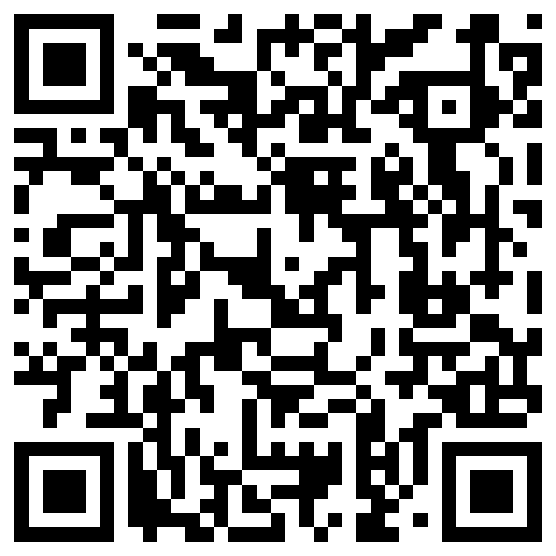
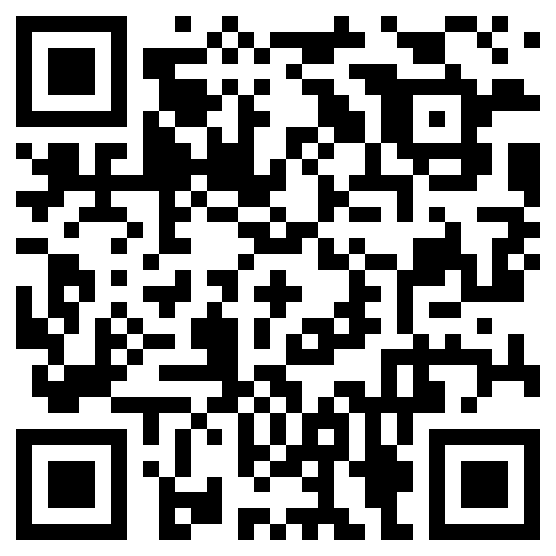
fix .md file

diff --git a/README.md b/README.md
@@ -41,7 +41,7 @@ implementare sistemi di controllo dell'errore con if, try catch e throw
 
 ---
 
-DEMO: <a href="https://mattiaortolani.github.io/Disney/">CLICCA PER VISUALIZZARE</a>
+DEMO: <a href="https://disneypp.netlify.app/">CLICCA PER VISUALIZZARE</a>
 
 <p>Oppure scannerizza il QR code</p>
 <img src="assets/img/qr.png" width="200px">
